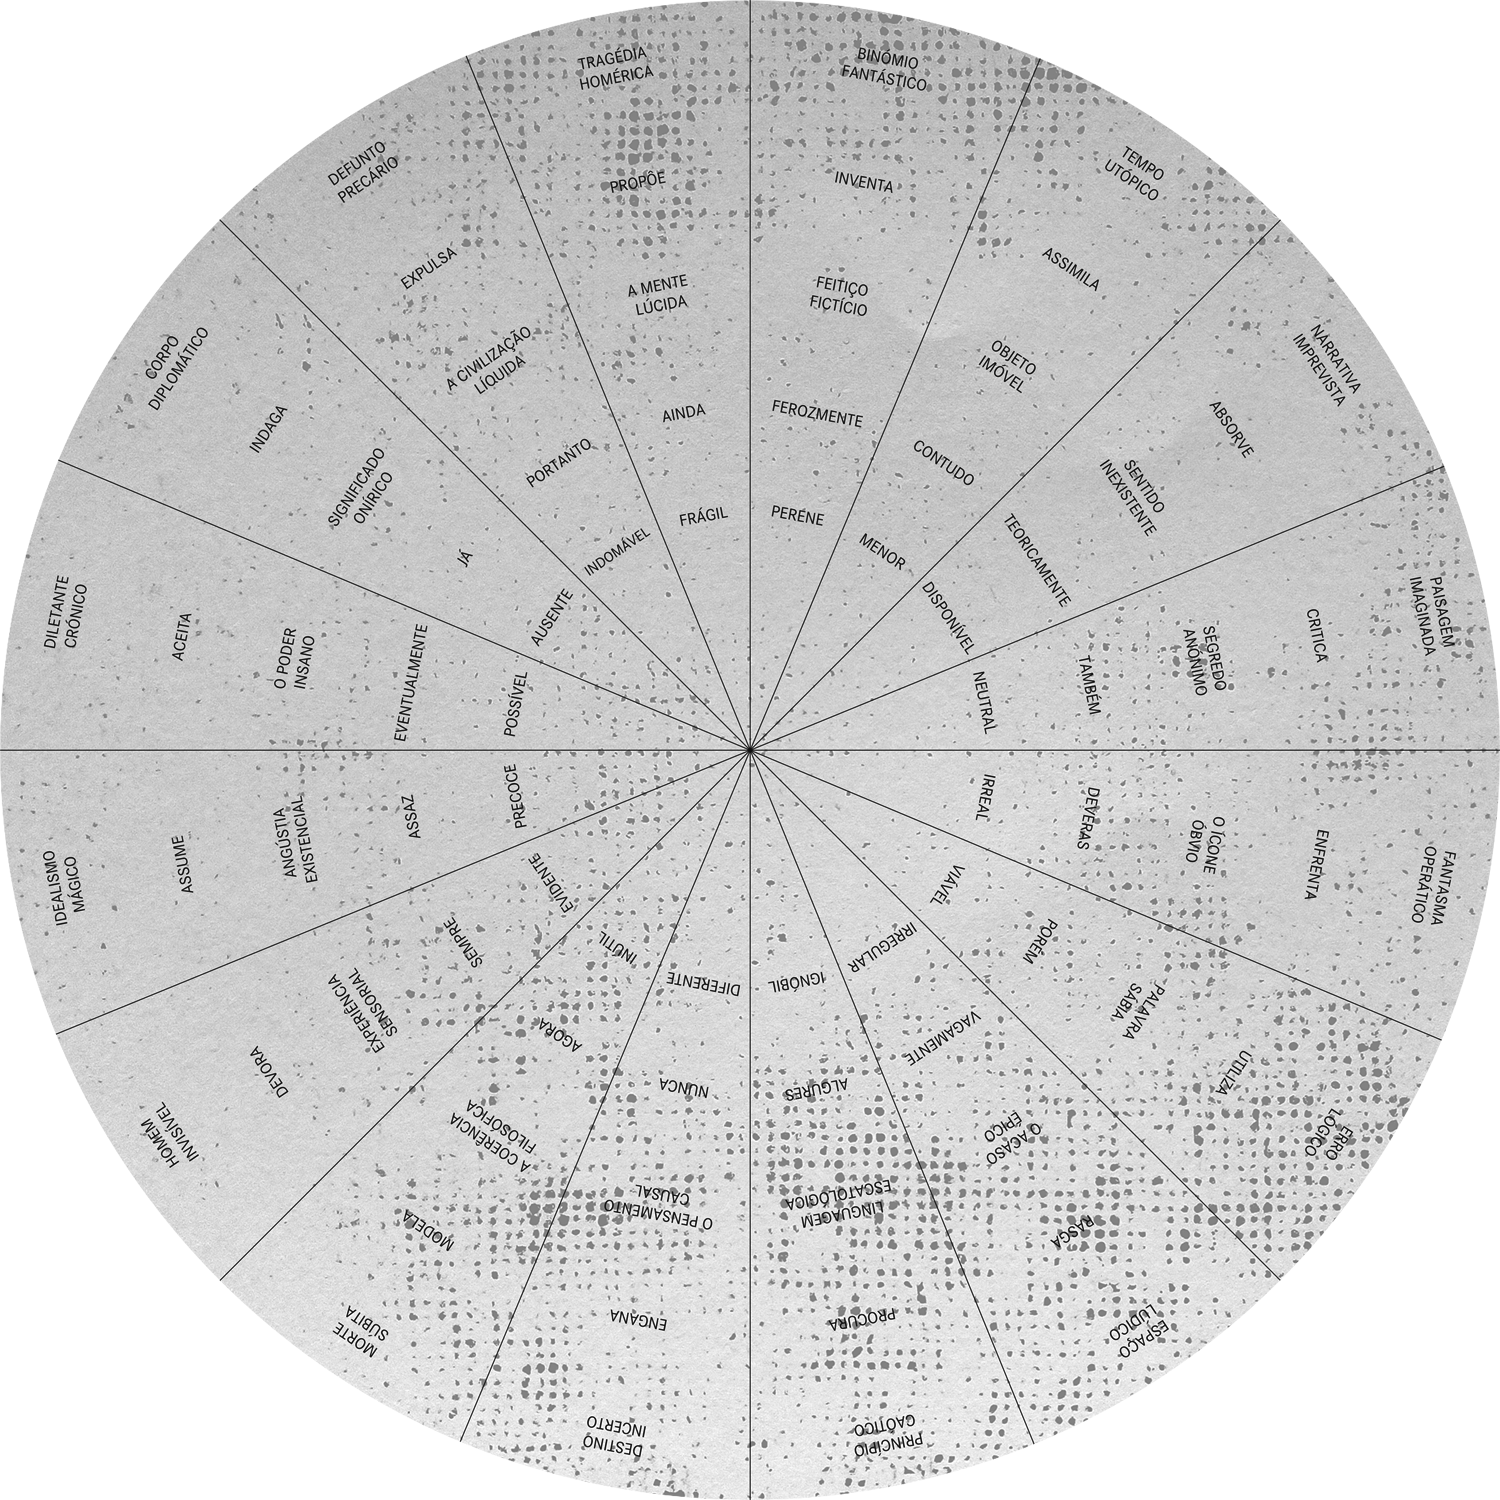
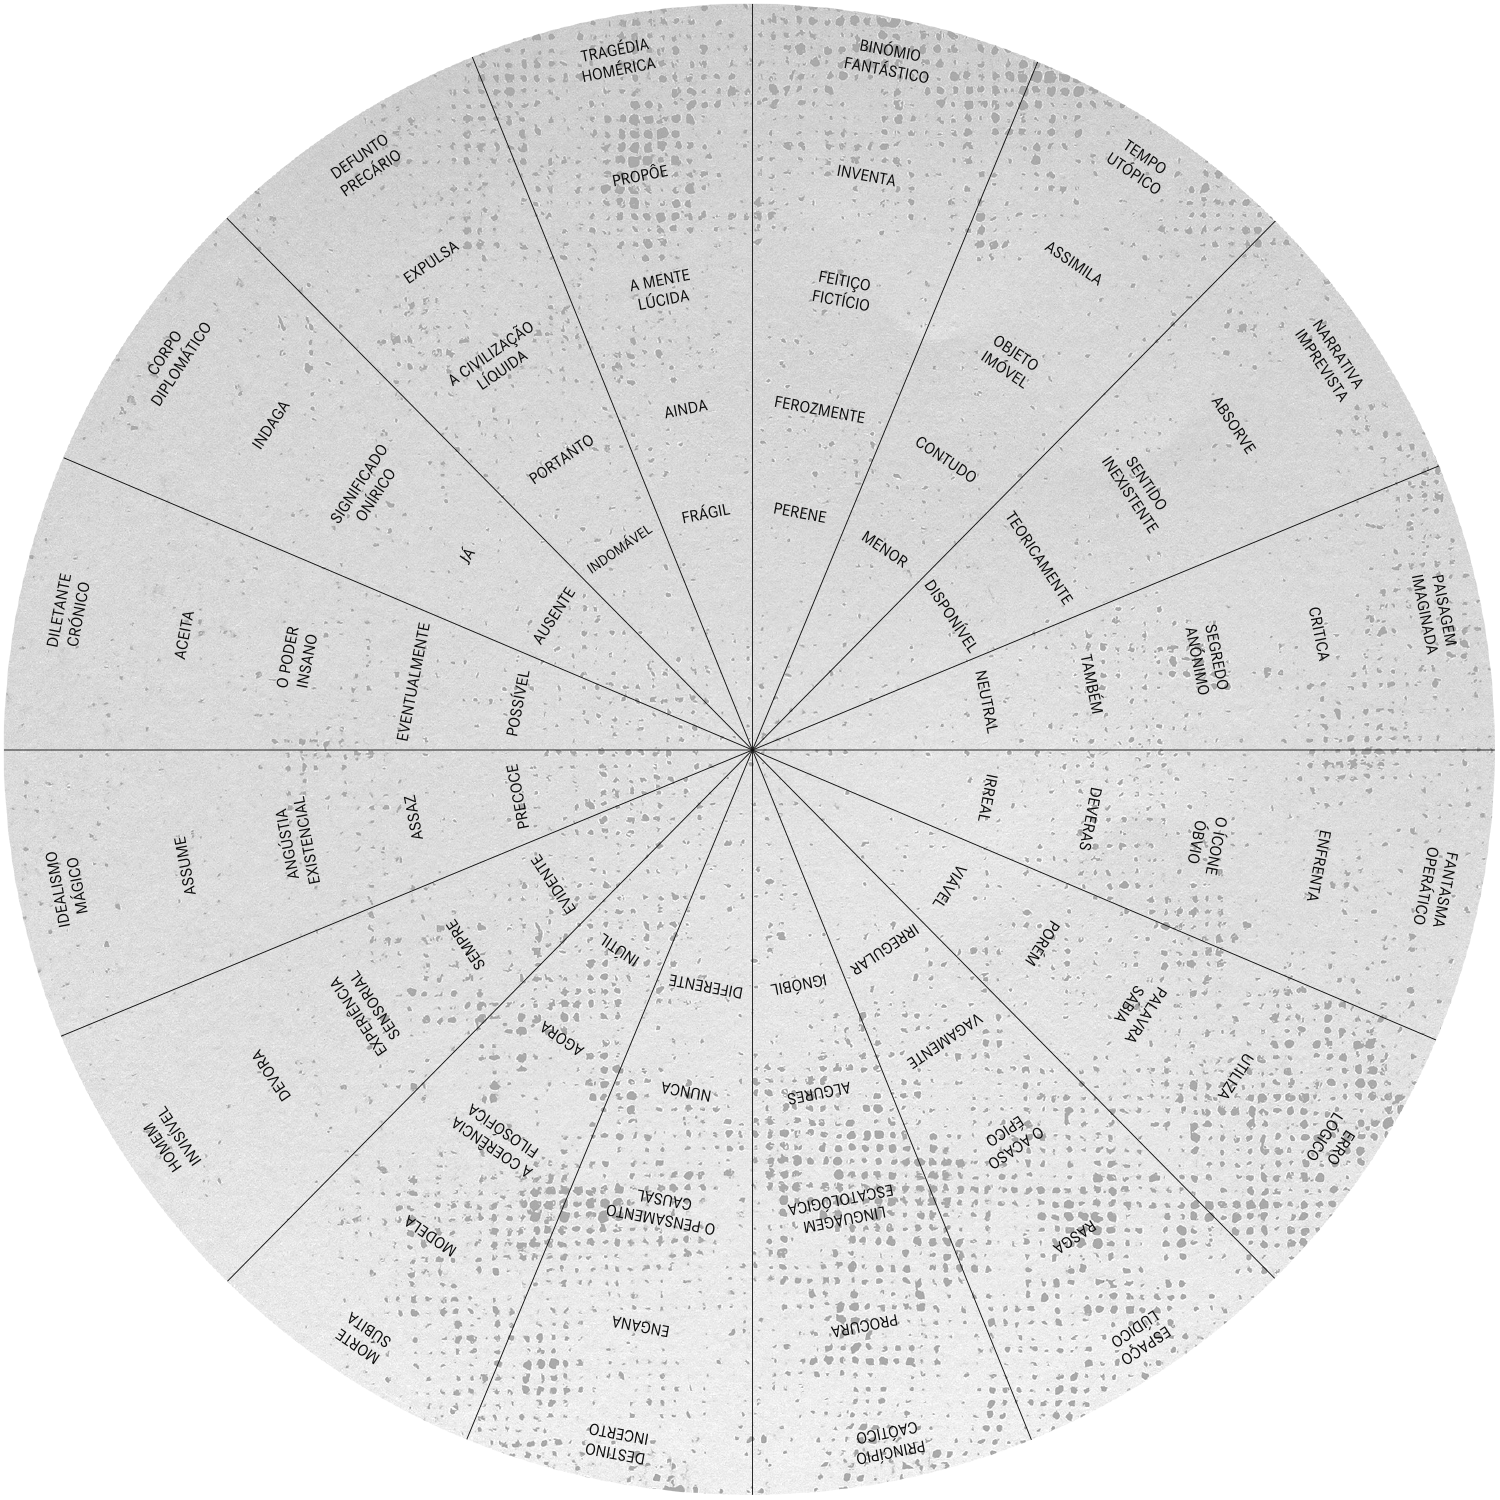
add one more words, modify order of volvelles

Changed region(s): [[0.0, 0.0, 1.0, 1.0], [0.1227, 0.828, 0.184, 0.8893]]

diff --git a/index.html b/index.html
@@ -39,13 +39,12 @@ The code was adapted to:
 	z-index: 1000; text-align: center; margin-left: 200px">
 	<img onclick="createRotatingVolvelle(psim1)" style="cursor: pointer; width: 150px; margin-right: 30px; border-radius: 50%" src="assets/img/simoes-words-1.png"></img>
 	<img onclick="createRotatingVolvelle(psim2)" style="cursor: pointer; width: 150px; margin-right: 30px; border-radius: 50%" src="assets/img/simoes-words-2.png"></img>
-	<img onclick="createRotatingVolvelle(psim3)" style="cursor: pointer; width: 150px; margin-right: 30px; border-radius: 50%" src="assets/img/simoes-words-3.png"></img>
 
 	<img onclick="createRotatingVolvelle(psim4)" style="cursor: pointer; width: 150px; margin-right: 30px; border-radius: 50%" src="assets/img/simoes-img-1.png"></img>
-
 	<img onclick="createRotatingVolvelle(psim5)" style="cursor: pointer; width: 150px; margin-right: 30px; border-radius: 50%" src="assets/img/simoes-img-2.png"></img>
 
-
+	<img onclick="createRotatingVolvelle(psim3)" style="cursor: pointer; width: 150px; margin-right: 30px; border-radius: 50%" src="assets/img/simoes-words-3.png"></img>
+	<img onclick="createRotatingVolvelle(psim6)" style="cursor: pointer; width: 150px; margin-right: 30px; border-radius: 50%" src="assets/img/simoes-words-4.png"></img>
 </div>
 	<br>
 	<p style="text-align: center; margin-left: 700px">⟳⟳⟳⟳⟳⟳⟳⟳⟳⟳⟳⟳⟳⟳⟳⟳⟳</p>
@@ -57,8 +56,8 @@ The code was adapted to:
 <div id="puzzle-canvas-wrapper-words-centered"></div>
 
 
-<p id="info" style="position:relative;
-top: 1500px;"><a target="_blank" href="https://www.behance.net/pedsim">Portfolio do Pedro Simões</a>. Com apoio técnico da <a target="_blank" href="https://terhimarttila.com/">Terhi Marttila</a> e da <a target="_blank" href="https://historicaltype.eu/about-me">Celeste Pedro</a>. <a target="_blank" href="https://historicaltype.eu/hacking">Um projeto irmão</a>.</p>
+<p id="info" style="margin-left: 0px; position:relative;
+top: 1550px;">>> <a target="_blank" href="https://www.behance.net/pedsim">Portfolio do Pedro Simões</a>. Com apoio técnico da <a target="_blank" href="https://terhimarttila.com/">Terhi Marttila</a> e da <a target="_blank" href="https://historicaltype.eu/about-me">Celeste Pedro</a>. <a target="_blank" href="https://thedigitalreview.com/issue03/hacking/">Um projeto irmão</a>.</p>
 </div>
 	<script language="javascript" type="text/javascript" src="assets/lib/p5.min.js"></script>
 	<script language="javascript" type="text/javascript" src="assets/script/volvelle-image.js"></script>

diff --git a/assets/script/volvelle-image.js b/assets/script/volvelle-image.js
@@ -5,9 +5,12 @@
 
 let psim1 = [ "assets/img/simoes-words-1.png", [1, 0.85, 0.684, 0.53, 0.373], "words" ];
 let psim2 = [ 'assets/img/simoes-words-2.png', [1, 0.84, 0.684, 0.53, 0.373], "words" ];
-let psim3 = [ 'assets/img/simoes-words-3.png', [1, 0.84, 0.684, 0.53, 0.373], "words-center" ];
+
 let psim4 = [ 'assets/img/simoes-img-1.png', [1, 0.62, 0.433], "img" ];
 let psim5 = [ 'assets/img/simoes-img-2.png', [1, 0.62, 0.433], "img" ];
+
+let psim3 = [ 'assets/img/simoes-words-3.png', [1, 0.84, 0.684, 0.53, 0.373], "words-center" ];
+let psim6 = [ 'assets/img/simoes-words-4.png', [1, 0.87, 0.73, 0.6, 0.45], "words-center" ];
 
 let canvas;
 let userVolvelleArray = [1, 0.75, 0.5, 0.23];
@@ -51,7 +54,8 @@ function createRotatingVolvelle(img){
 
 	console.log("img is:", img);
 	if(img[2] === "img"){
-		canvas.parent(puzzleDivIMG);
+		canvas.parent(puzzleDivWordsCentered);
+		//canvas.parent(puzzleDivIMG);
 	}else if (img[2] === "words-center"){
 		canvas.parent(puzzleDivWordsCentered);
 	}else{

diff --git a/assets/css/volvelle-image.css b/assets/css/volvelle-image.css
@@ -25,6 +25,8 @@ body
 
 #puzzle-canvas-wrapper-img{
   position: absolute;
+  cursor: pointer;
+  height: 1000px;
   margin: 0 auto 0 auto;
   width: 800px;
 }
